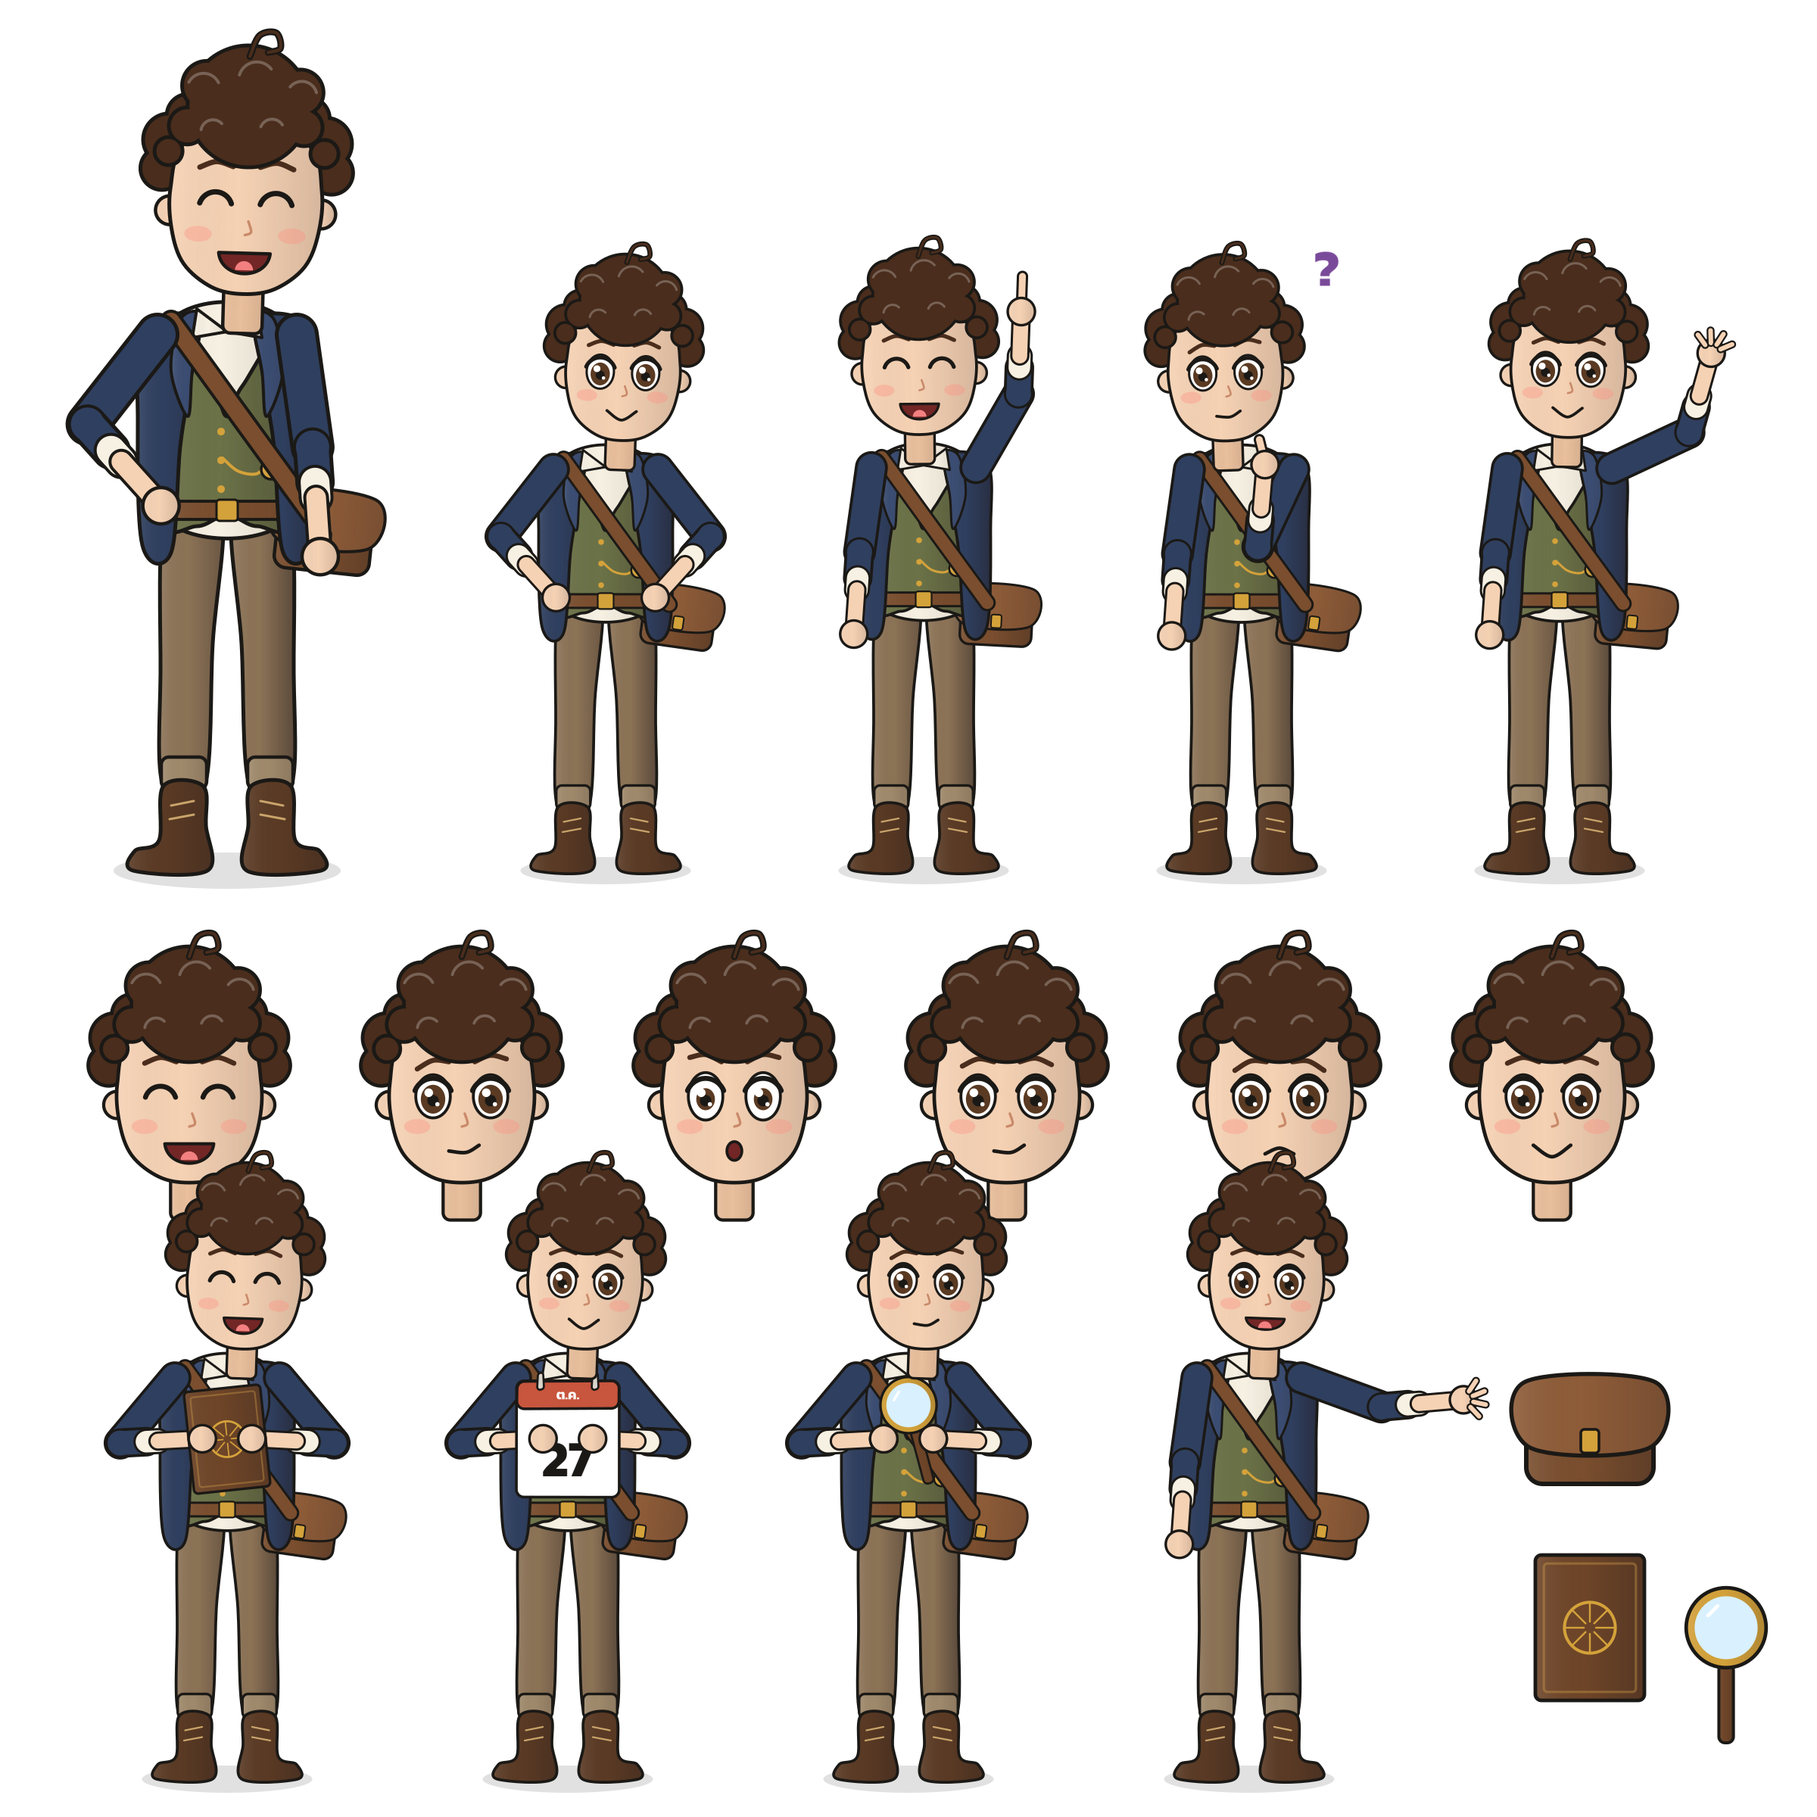
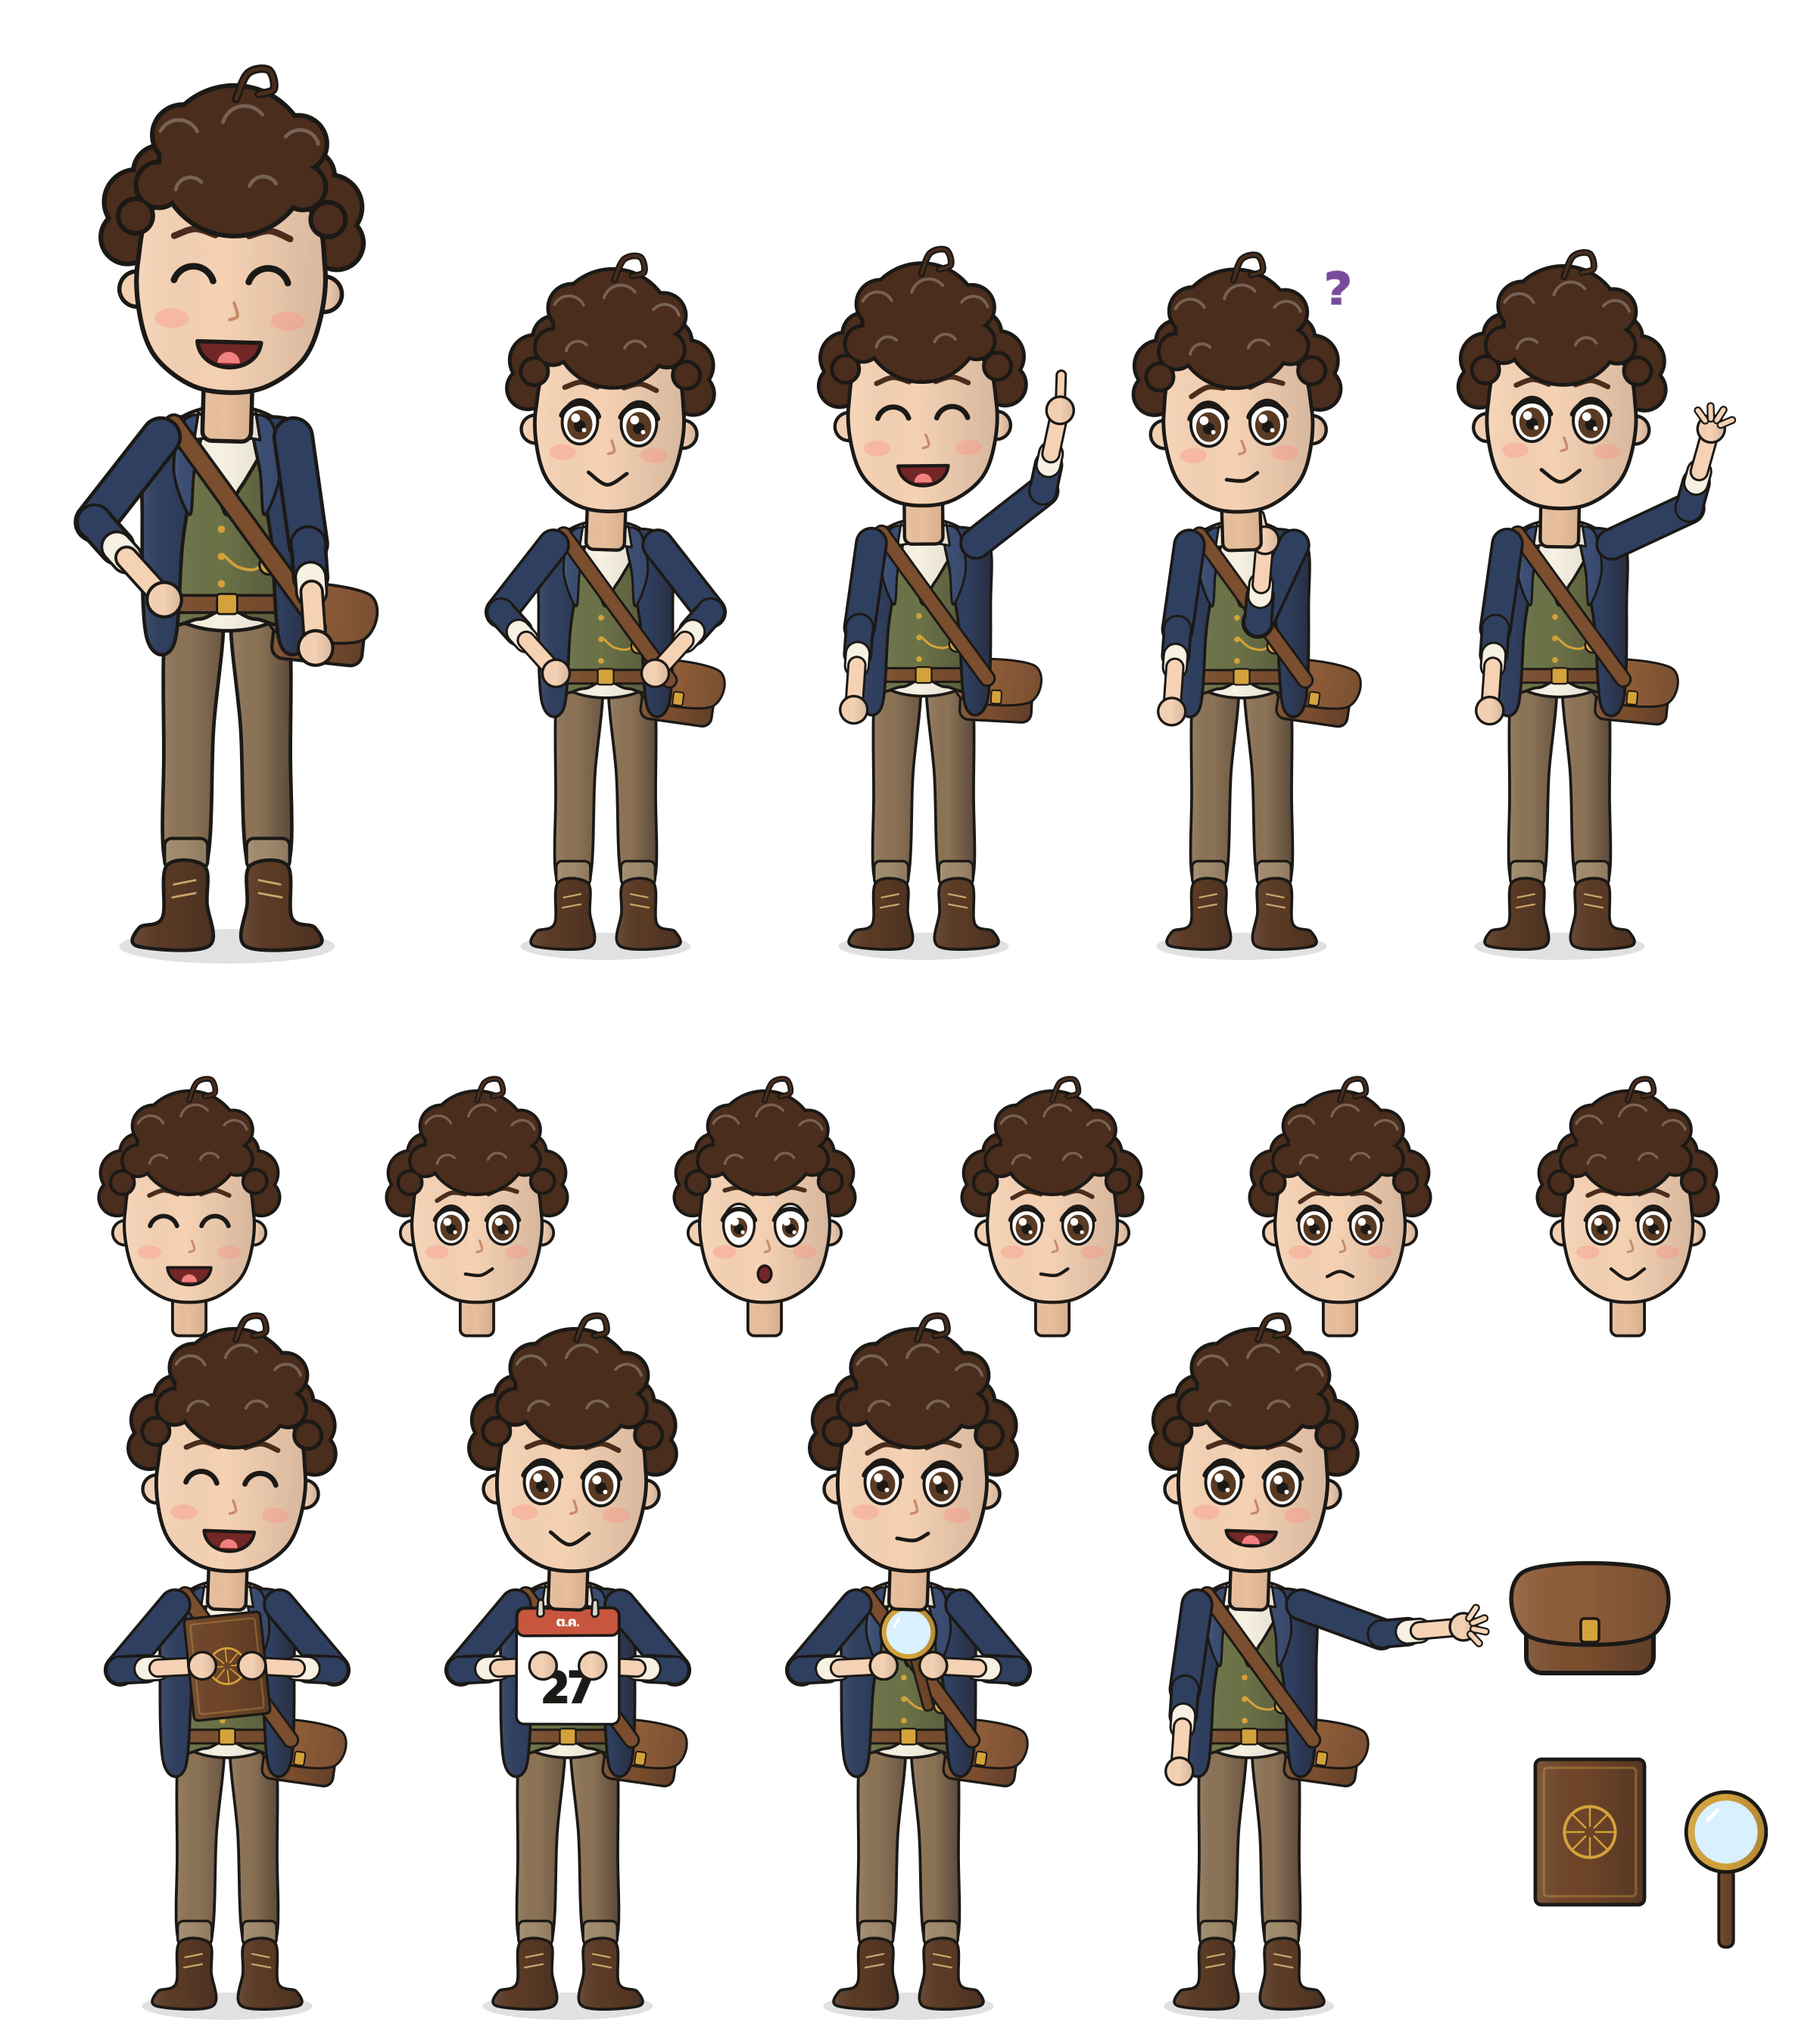
มาสคอต: หัวโตขึ้น 1.3 เท่า, ปรับท่าชี้นิ้ว
Claude-Session: https://claude.ai/code/session_01CAK9vT4Z2vqNb6c69Bs1RT

diff --git a/src/host.py b/src/host.py
@@ -26,7 +26,7 @@ BRASS = hexc("#d4a23a")
 # มุมแขน (องศาจากแนวดิ่งลง, + = กางออกนอกตัว) ต้นแขน, ปลายแขน — ข้างซ้ายจอ, ข้างขวาจอ
 POSES = {
     "idle":    ((38, -42), (8, 4)),
-    "point":   ((8, 4), (150, 178)),
+    "point":   ((8, 4), (128, 168)),
     "wave":    ((8, 4), (115, 168)),
     "think":   ((8, 4), (-25, 175)),
     "hold":    ((40, -93), (40, -93)),
@@ -35,6 +35,8 @@ POSES = {
 }
 L1, L2 = 150, 145
 SHOULDER_Y = -720
+HEAD_SC = 1.3      # หัวโตแบบการ์ตูน (เจ้าของช่องขอ) — ขยายรอบจุดคอ
+NECK_Y = -735
 
 
 def _arm_pts(sx, a1, a2):
@@ -381,10 +383,11 @@ def host(g, x, y, sc=1.0, expr="smile", pose="idle", t=0.0, prop=None, talk=Fals
             else:
                 _arm(g, -1, a_l1, a_l2, "open", t)
                 _arm(g, 1, a_r1, a_r2 + 4 * math.sin(t * 6) * (pose == "wave"), hands.get(pose, "open"), t)
-            with g.at(0, bob * 0.7, 1, 2 * math.sin(t * 1.7 + seed)):
-                _head(g, expr, t, talk, look, seed)
+            with g.at(0, NECK_Y + bob * 0.7, HEAD_SC, 2 * math.sin(t * 1.7 + seed)):
+                with g.at(0, -NECK_Y):
+                    _head(g, expr, t, talk, look, seed)
         if pose in ("think",) and expr == "curious":
-            g.label("?", 150, -1060, 90, color=hexc("#7a4a9a"))
+            g.label("?", 170, -1160, 90, color=hexc("#7a4a9a"))
 
 
 def host_head(g, x, y, sc=1.0, expr="smile", t=0.0, talk=False, look=(0, 0), seed=0):
